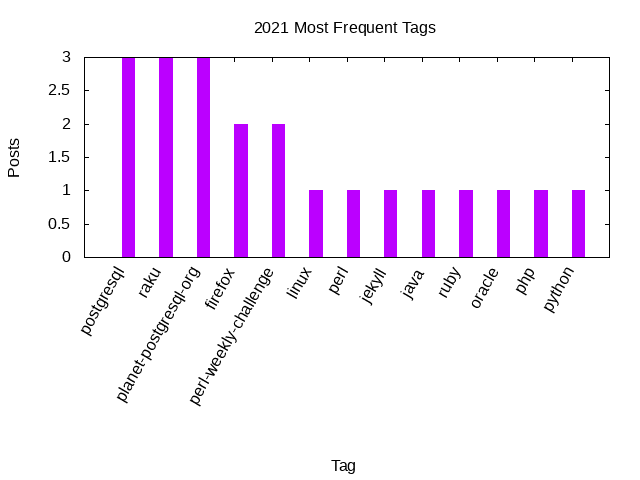
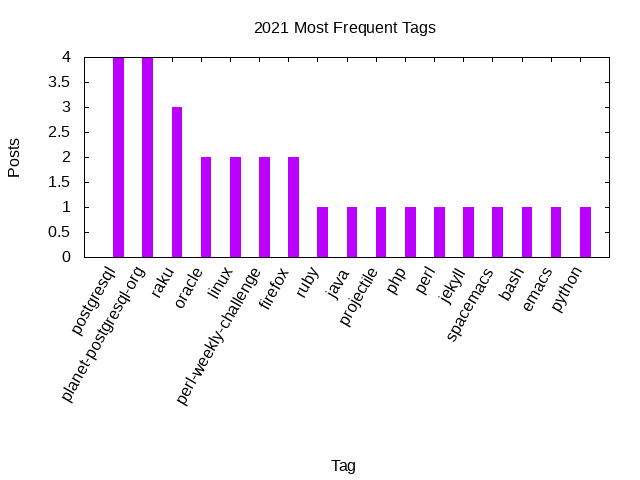
Stats update

diff --git a/_includes/stats/2021.md b/_includes/stats/2021.md
@@ -1,22 +1,26 @@
 <a name="2021" />
 ## 2021 (work in progress)
 
-**10 total posts** have been written on 2021.
-There have been *13 different tags* used, the most
+**13 total posts** have been written on 2021.
+There have been *17 different tags* used, the most
 popular being (sorted by number of posts):
  
-- *postgresql* (3 posts)  
+- *postgresql* (4 posts)  
+- *planet-postgresql-org* (4 posts)  
 - *raku* (3 posts)  
-- *planet-postgresql-org* (3 posts)  
-- *firefox* (2 posts)  
+- *oracle* (2 posts)  
+- *linux* (2 posts)  
 - *perl-weekly-challenge* (2 posts)  
-- *linux* (1 posts)  
+- *firefox* (2 posts)  
+- *ruby* (1 posts)  
+- *java* (1 posts)  
+- *projectile* (1 posts)  
+- *php* (1 posts)  
 - *perl* (1 posts)  
 - *jekyll* (1 posts)  
-- *java* (1 posts)  
-- *ruby* (1 posts)  
-- *oracle* (1 posts)  
-- *php* (1 posts)  
+- *spacemacs* (1 posts)  
+- *bash* (1 posts)  
+- *emacs* (1 posts)  
 - *python* (1 posts).<br/>
 <br/>
 The following is the overall 2021 post ratio by month:
@@ -36,7 +40,7 @@ The following is the overall 2021 post ratio by tag (showing max 30 tags):
 
 <div align="right">
 <small>
-Last generated on 2021-01-11 at 12:40
+Last generated on 2021-01-14 at 17:08
 </small>
 </div>
 
